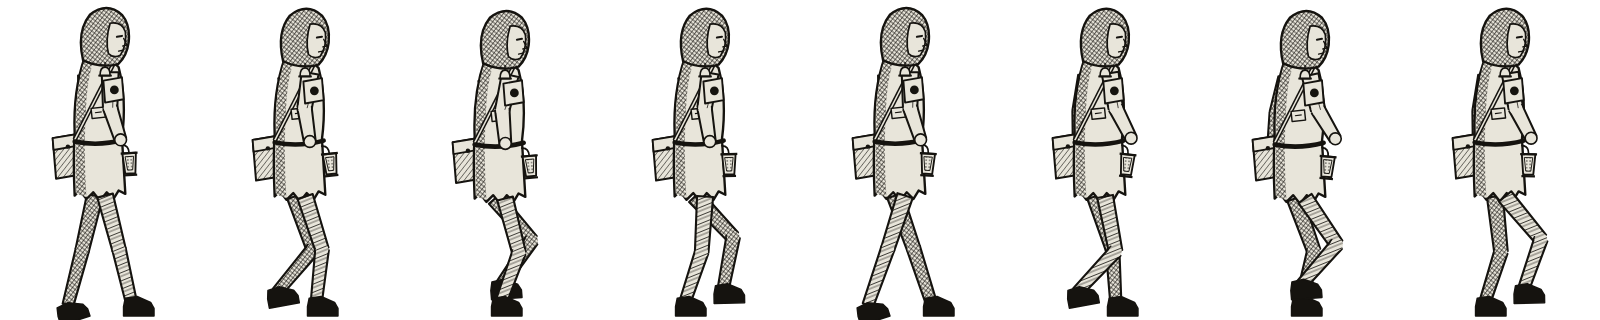
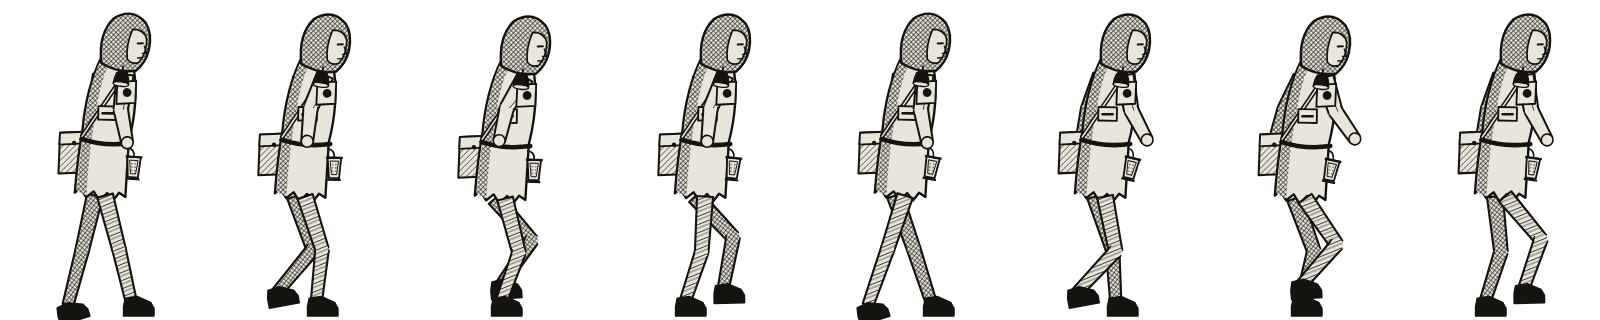
Tobie v2 : buste penché, bras qui balance, cloche et plaque lisibles
Notes du Game Director : coureur pressé et transi (buste penché de 7°,
tête rentrée), bras libre au balancement franc, cloche sans battant en
forme d'encre pleine et plaque agrandie pour se lire à 300 px.

Claude-Session: https://claude.ai/code/session_011WbKxBfoJbcyebqrVqkEA5

diff --git a/tools/gen_chr_tobie.py b/tools/gen_chr_tobie.py
@@ -136,8 +136,9 @@ def buste() -> str:
         f'<path d="M150 108 L104 198" stroke="{PAPIER}" stroke-width="1.8" fill="none"/>'
         f'<path d="M104 200 Q132 206 162 198" stroke="{ENCRE}" stroke-width="5.4" fill="none" stroke-linecap="round"/>'
         # plaque de coureur
-        f'<rect x="124" y="160" width="16" height="12" fill="{PAPIER}" {ST} stroke-width="1.7" transform="rotate(-6 132 166)"/>'
-        f'<path d="M128 166 L136 165" stroke="{ENCRE}" stroke-width="1.4"/>'
+        # plaque de coureur, simplifiée pour se lire à 300 px : grand rectangle clair, un seul trait épais
+        f'<rect x="120" y="158" width="22" height="16" fill="{PAPIER}" {ST} stroke-width="2.2" transform="rotate(-6 131 166)"/>'
+        f'<path d="M125 167 L137 165.6" stroke="{ENCRE}" stroke-width="3" stroke-linecap="round"/>'
     )
 
 
@@ -157,9 +158,10 @@ def tete() -> str:
         f'<path d="M162 78 L166 86 L161 87" fill="none" {ST} stroke-width="1.6"/>'
         f'<path d="M156 93 L161 92" stroke="{ENCRE}" stroke-width="1.6" stroke-linecap="round"/>'
         # cloche sans battant au col
-        f'<path d="M140 106 L140 112" stroke="{ENCRE}" stroke-width="1.6"/>'
-        f'<path d="M134 122 Q134 112 140 112 Q146 112 146 122 Z" fill="{PAPIER}" {ST} stroke-width="2"/>'
-        f'<path d="M132 122 L148 122" stroke="{ENCRE}" stroke-width="2.2"/>'
+        # cloche sans battant, simplifiée : forme d'encre pleine, bouche vide en papier (aucun battant)
+        f'<path d="M140 104 L140 110" stroke="{ENCRE}" stroke-width="2"/>'
+        f'<path d="M131 126 Q132 110 140 110 Q148 110 149 126 Z" fill="{ENCRE}" {ST} stroke-width="2"/>'
+        f'<ellipse cx="140" cy="126" rx="9" ry="2.6" fill="{PAPIER}" {ST} stroke-width="1.6"/>'
     )
 
 
@@ -174,7 +176,8 @@ CENDRE = f'<path d="M152 66 Q157 63 160 68" stroke="#4A463D" stroke-width="3.4" 
 
 
 # --- une pose -------------------------------------------------------------------------------
-def pose(bob: float, pied_arr, pied_av, bras_arr: float, bras_av, lant: float, sac: float) -> dict[str, str]:
+def pose(bob: float, pied_arr, pied_av, bras_arr: float, bras_av, lant: float, sac: float,
+         penche: float = 0.0, voute: float = 0.0) -> dict[str, str]:
     """Renvoie les trois calques d'une image, dans le repère de la planche de style.
 
     pied_* = (dx, dy, talon) : cheville relative à la hanche au repos, en px planche.
@@ -183,7 +186,8 @@ def pose(bob: float, pied_arr, pied_av, bras_arr: float, bras_av, lant: float, s
     hx, hy = HANCHE[0], HANCHE[1] + bob
     def cheville(p):
         return (hx + p[0], CHEVILLE_Y + p[1])
-    haut = f'<g transform="translate(0 {bob:.1f})">'
+    # penche : le buste bascule vers l'avant autour des hanches ; voute : la tête rentre dans les épaules
+    haut = f'<g transform="translate(0 {bob:.1f}) rotate({penche:.1f} {hx:.1f} {HANCHE[1]:.1f})">'
     base = [jambe((hx - 6, hy), cheville(pied_arr), pied_arr[2], sombre=True),
             haut, bras((118, 122), bras_arr, avant=False), sacoche(sac), buste(), '</g>',
             jambe((hx + 6, hy), cheville(pied_av), pied_av[2]),
@@ -197,7 +201,7 @@ def pose(bob: float, pied_arr, pied_av, bras_arr: float, bras_av, lant: float, s
     else:
         base.append(bras((146, 118), bras_av, avant=True))
         base.append(PLI)
-    base += [tete(), '</g>']
+    base += [f'<g transform="translate({voute * 0.6:.1f} {voute:.1f})">', tete(), '</g>', '</g>']
     ruban = RUBAN
     if isinstance(bras_av, tuple):
         # interagir : la main se pose sur le pli, devant lui et devant le ruban
@@ -210,8 +214,8 @@ def pose(bob: float, pied_arr, pied_av, bras_arr: float, bras_av, lant: float, s
                  f'<circle cx="{mx:.1f}" cy="{my:.1f}" r="8.2" fill="#000"/></mask>'
                  f'<g mask="url(#{mid})">{RUBAN}</g>')
     return {"base": "".join(base),
-            "red": f'<g transform="translate(0 {bob:.1f})">{ruban}</g>',
-            "cendre": f'<g transform="translate(0 {bob:.1f})">{CENDRE}</g>'}
+            "red": f'{haut}{ruban}</g>',
+            "cendre": f'{haut}<g transform="translate({voute * 0.6:.1f} {voute:.1f})">{CENDRE}</g></g>'}
 
 
 def marche(i: int, n: int = 8) -> dict[str, str]:
@@ -230,12 +234,14 @@ def marche(i: int, n: int = 8) -> dict[str, str]:
     pa, pv = pied(ph + 0.5), pied(ph)
     bob = -3.5 * abs(math.cos(2 * math.pi * ph))         # plus haut au passage des jambes
     swing = 16 * math.sin(2 * math.pi * ph)
-    return pose(bob + 2, pa, pv, swing, -swing * 0.8, -6 * math.sin(2 * math.pi * ph + 0.6), 1.5 * math.sin(2 * math.pi * ph))
+    # coureur pressé et transi : buste penché de 7°, tête rentrée, bras libre qui balance franchement
+    return pose(bob + 2, pa, pv, swing * 1.3, -swing * 1.5, -6 * math.sin(2 * math.pi * ph + 0.6), 1.5 * math.sin(2 * math.pi * ph),
+                penche=7, voute=4)
 
 
 def repos(i: int) -> dict[str, str]:
     souffle = (0, -1, -2, -1)[i]
-    return pose(souffle, (-12, 0, 0), (14, 0, 0), 2, -3 + souffle * 0.5, 0, 0)
+    return pose(souffle, (-12, 0, 0), (14, 0, 0), 2, -3 + souffle * 0.5, 0, 0, penche=2, voute=2)
 
 
 def interagir(i: int) -> dict[str, str]:
